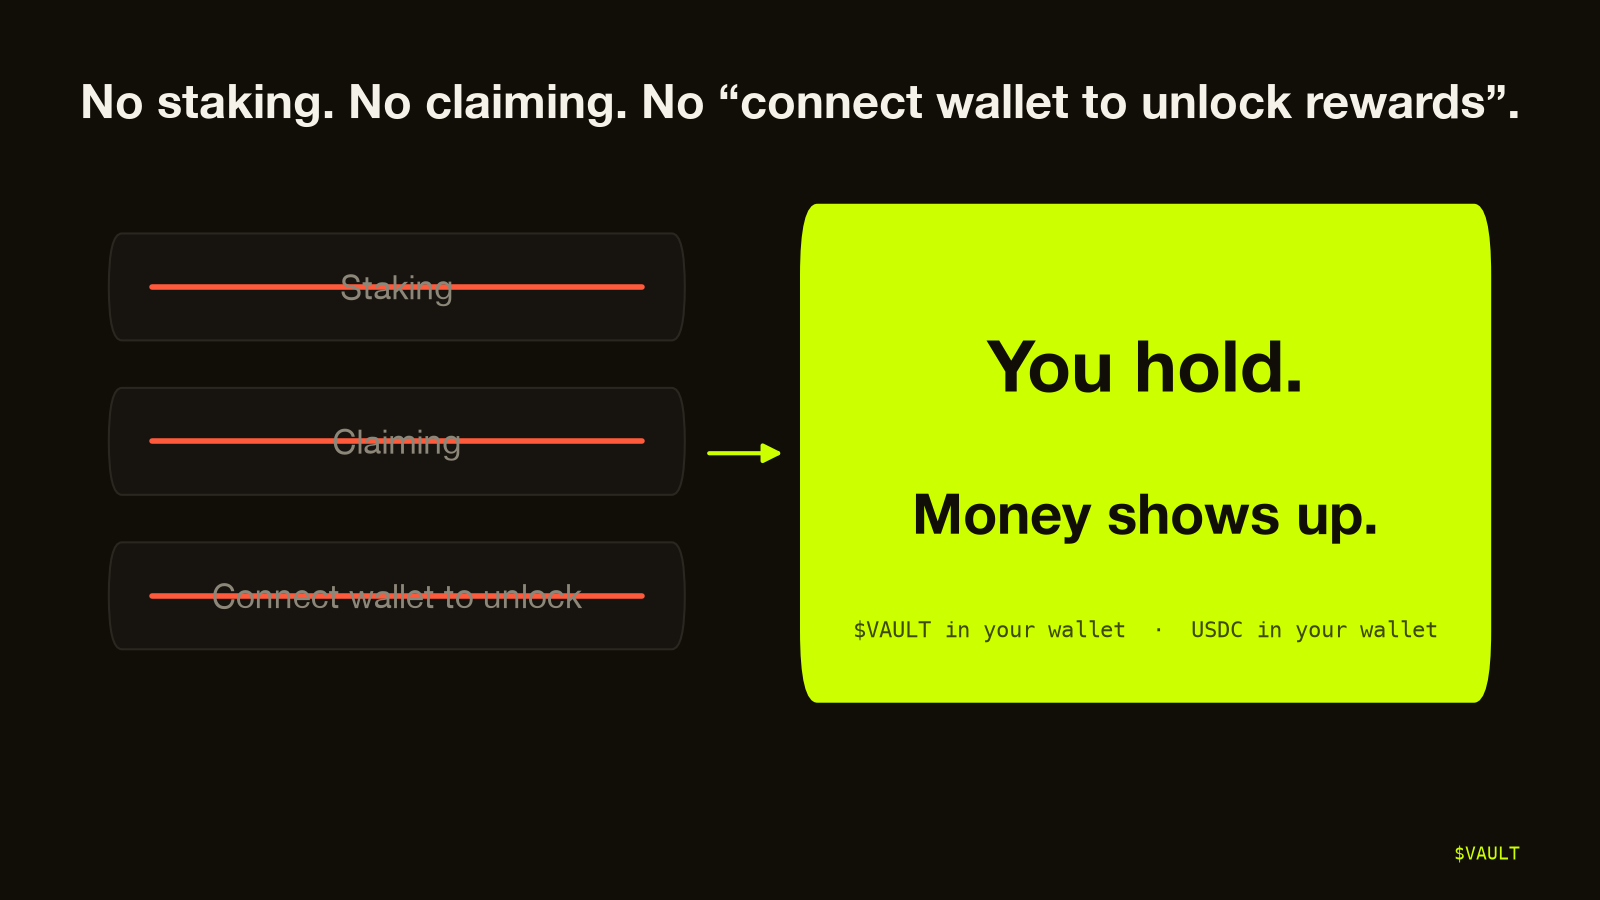
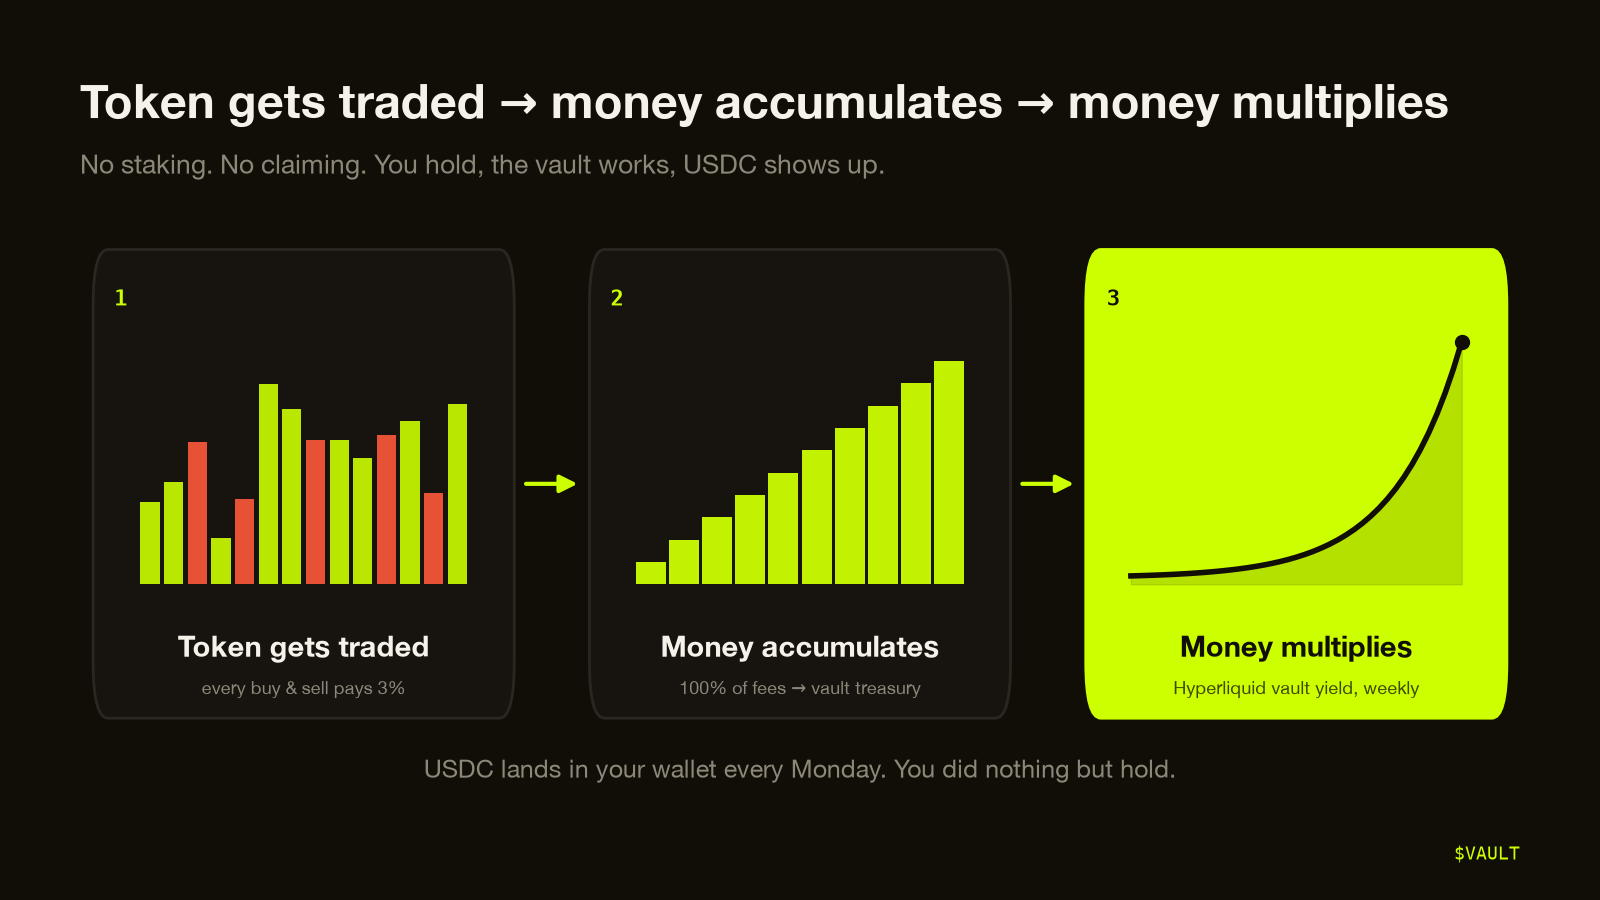
Chart 11: traded → accumulates → multiplies

diff --git a/charts/gen_charts.py b/charts/gen_charts.py
@@ -142,17 +142,32 @@ ax.set_ylim(0, 4.1); ax.legend(loc="upper left", fontsize=16, frameon=False, lab
 save(f, "10_treasury_vs_pool.png")
 print("pools", [round(p) for p in pools], "per1M", round(pool8*1e6/elig))
 
-# 11 no staking / no claiming
-f = fig("No staking. No claiming. No “connect wallet to unlock rewards”.", None, foot=False)
-ax = f.add_axes([0.05, 0.14, 0.9, 0.66]); ax.set_xlim(0, 100); ax.set_ylim(0, 10); ax.axis("off")
-for i, t in enumerate(["Staking", "Claiming", "Connect wallet to unlock"]):
-    y = 8.2 - i * 2.6
-    ax.add_patch(FancyBboxPatch((2, y - 0.9), 40, 1.8, boxstyle="round,pad=0,rounding_size=0.9", fc=PANEL, ec=LINE, lw=1.5))
-    ax.text(22, y, t, ha="center", va="center", fontsize=24, color=MUTED)
-    ax.plot([5, 39], [y, y], color=RED, lw=4, solid_capstyle="round")
-ax.add_patch(FancyBboxPatch((50, 1.2), 48, 8.4, boxstyle="round,pad=0,rounding_size=1.2", fc=LIME, ec="none"))
-ax.text(74, 6.9, "You hold.", ha="center", va="center", fontsize=52, fontweight="bold", color=BG)
-ax.text(74, 4.4, "Money shows up.", ha="center", va="center", fontsize=40, fontweight="bold", color=BG)
-ax.text(74, 2.4, "$VAULT in your wallet  ·  USDC in your wallet", ha="center", va="center", fontsize=16, color="#3d4a00", family=MONO)
-ax.annotate("", xy=(49, 5.4), xytext=(43.5, 5.4), arrowprops=dict(arrowstyle="-|>", color=LIME, lw=3, mutation_scale=28))
+# 11 traded → accumulates → multiplies
+f = fig("Token gets traded → money accumulates → money multiplies", "No staking. No claiming. You hold, the vault works, USDC shows up.", foot=False)
+ax = f.add_axes([0.03, 0.14, 0.94, 0.62]); ax.set_xlim(0, 100); ax.set_ylim(0, 10); ax.axis("off")
+random.seed(3)
+cards = [("1", "Token gets traded", "every buy & sell pays 3%"), ("2", "Money accumulates", "100% of fees → vault treasury"), ("3", "Money multiplies", "Hyperliquid vault yield, weekly")]
+cw, gap = 28, 5; x0 = (100 - (3 * cw + 2 * gap)) / 2
+for i, (n, t, sub) in enumerate(cards):
+    x = x0 + i * (cw + gap); last = i == 2
+    ax.add_patch(FancyBboxPatch((x, 1), cw, 8.4, boxstyle="round,pad=0,rounding_size=1", fc=LIME if last else PANEL, ec=LIME if last else LINE, lw=2))
+    ink = BG if last else TEXT; acc = BG if last else LIME; mut = "#3d4a00" if last else MUTED
+    ax.text(x + 1.4, 8.7, n, fontsize=16, color=acc, family=MONO, fontweight="bold", va="top")
+    ax.text(x + cw / 2, 2.3, t, ha="center", va="center", fontsize=21, fontweight="bold", color=ink)
+    ax.text(x + cw / 2, 1.55, sub, ha="center", va="center", fontsize=13, color=mut)
+    # mini chart inside the card
+    gx, gy, gw, gh = x + 3, 3.4, cw - 6, 4.2
+    if i == 0:   # trades: random up/down bars
+        for k in range(14):
+            h = random.uniform(0.8, 3.6); up = random.random() > 0.4
+            ax.add_patch(plt.Rectangle((gx + k * (gw / 14) + 0.15, gy), gw / 14 - 0.3, h, fc=LIME if up else RED, alpha=.9))
+    elif i == 1: # accumulation: staircase
+        for k in range(10):
+            ax.add_patch(plt.Rectangle((gx + k * (gw / 10) + 0.1, gy), gw / 10 - 0.2, 0.4 + k * 0.4, fc=LIME, alpha=.95))
+    else:        # multiply: curve
+        xs = [gx + gw * k / 40 for k in range(41)]; ys = [gy + 0.15 + gh * (1.13 ** k - 1) / (1.13 ** 40 - 1) for k in range(41)]
+        ax.fill_between(xs, [gy] * 41, ys, color=BG, alpha=.12); ax.plot(xs, ys, color=BG, lw=4)
+        ax.plot([xs[-1]], [ys[-1]], "o", ms=10, mfc=BG, mec=BG)
+    if not last: ax.annotate("", xy=(x + cw + gap - 0.6, 5.2), xytext=(x + cw + 0.6, 5.2), arrowprops=dict(arrowstyle="-|>", color=LIME, lw=3, mutation_scale=26))
+ax.text(50, 0.1, "USDC lands in your wallet every Monday. You did nothing but hold.", ha="center", va="center", fontsize=18, color=MUTED)
 save(f, "11_no_staking.png")
